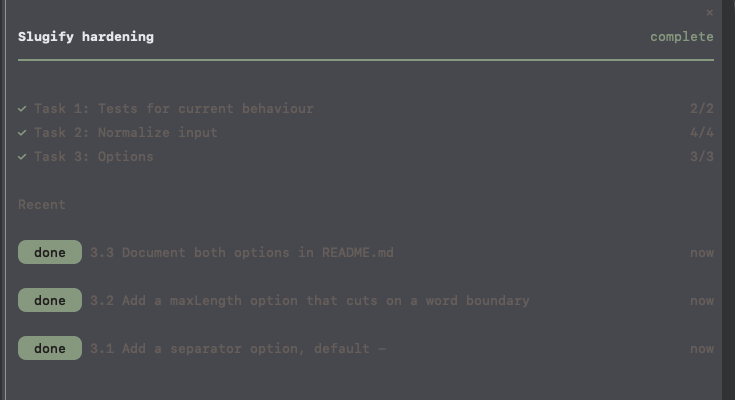
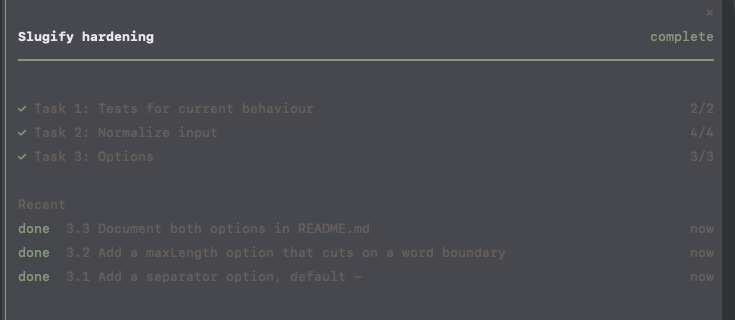
plan-progress: show Recent statuses as colored text again
Pills read heavier than the rest of the pane. Recent now also keeps three rows besides the current item, since the current one used to take a slot.

diff --git a/plan-progress/hooks/register.tsx b/plan-progress/hooks/register.tsx
@@ -168,7 +168,6 @@ const icons: Record<ItemState, { glyph: string; color: string }> = {
 }
 
 const panePadding = 1
-const pillCaps = { left: '\ue0b6', right: '\ue0b4' }
 
 const statusColors: Record<ReportStatus, string> = { doing: 'claude', done: 'success', blocked: 'warning' }
 
@@ -234,7 +233,6 @@ export const register: Register = on => {
 
   on('ui.render', { component: 'Pane', requestId: paneId }, async ($, e) => {
     const { Box, Text } = $.ui.resolve(e)
-    const isTerminal = e.surface === 'terminal'
     const { progress, outline, error } = await read($, view)
     const time = await read($, now)
 
@@ -271,7 +269,7 @@ export const register: Register = on => {
       )
     }
 
-    const pillColumnWidth = Math.max(0, ...model.recent.map(row => row.status.length)) + (isTerminal ? 4 : 2)
+    const statusColumnWidth = Math.max(0, ...model.recent.map(row => row.status.length)) + 1
     const barColor = model.isComplete ? 'success' : 'claude'
     const focusColor = model.focus?.label === 'Blocked' ? 'warning' : model.focus?.label === 'Now' ? 'claude' : 'subtle'
 
@@ -369,17 +367,11 @@ export const register: Register = on => {
         {model.recent.length > 0 && (
           <Box flexDirection="column" marginTop={1}>
             <Text dimColor>Recent</Text>
-            <Box flexDirection="column" rowGap={1} marginTop={1}>
+            <Box flexDirection="column">
               {model.recent.map(row => (
                 <Box key={row.key} gap={1}>
-                  <Box width={pillColumnWidth} flexShrink={0}>
-                    <Text>
-                      {isTerminal && <Text color={statusColors[row.status]}>{pillCaps.left}</Text>}
-                      <Text backgroundColor={statusColors[row.status]} color="inverseText">
-                        {` ${row.status} `}
-                      </Text>
-                      {isTerminal && <Text color={statusColors[row.status]}>{pillCaps.right}</Text>}
-                    </Text>
+                  <Box width={statusColumnWidth} flexShrink={0}>
+                    <Text color={statusColors[row.status]}>{row.status}</Text>
                   </Box>
                   <Box flexGrow={1} flexShrink={1}>
                     <Text dimColor wrap="truncate-end">

diff --git a/plan-progress/hooks/register.test.tsx b/plan-progress/hooks/register.test.tsx
@@ -121,20 +121,15 @@ test('opens the pane on the first report and draws progress on every surface', a
   }
 })
 
-test('shows finished reports under Recent with a status pill', async ($, on) => {
+test('shows finished reports under Recent with their status', async ($, on) => {
   installHost(on)
   await start($)
 
   await $.tool.call({ tool, plan: planPath, item: '2', status: 'done' })
 
-  const terminal = await mountPane($, 'terminal')
-  expect(await terminal.find({ type: 'Text', text: ' done ' })).toBeDefined()
-  expect(await terminal.find({ type: 'Text', text: '\ue0b6' })).toBeDefined()
-  await terminal.unmount()
-
-  const desktop = await mountPane($, 'desktop')
-  expect(await desktop.find({ type: 'Text', text: ' done ' })).toBeDefined()
-  await desktop.unmount()
+  const pane = await mountPane($, 'terminal')
+  expect(await pane.find({ type: 'Text', text: 'done' })).toBeDefined()
+  await pane.unmount()
 })
 
 test('keeps the tracked plan for the next session of the project', async ($, on) => {

diff --git a/plan-progress/hooks/progress.test.ts b/plan-progress/hooks/progress.test.ts
@@ -34,13 +34,13 @@ test('done on another item keeps the current one', () => {
   expect(progress.current?.ref).toBe('3')
 })
 
-test('recent keeps the last three items', () => {
+test('recent keeps the last four items, one more than the pane shows', () => {
   let progress = emptyProgress('/p.md')
-  for (const [index, ref] of ['1', '2', '3', '4'].entries()) {
+  for (const [index, ref] of ['1', '2', '3', '4', '5'].entries()) {
     progress = withReport(progress, reportOf(ref, 'done', index))
   }
 
-  expect(progress.recent.map(one => one.ref)).toEqual(['4', '3', '2'])
+  expect(progress.recent.map(one => one.ref)).toEqual(['5', '4', '3', '2'])
 })
 
 test('summarizes counts and the next item', () => {

diff --git a/plan-progress/hooks/pane.ts b/plan-progress/hooks/pane.ts
@@ -1,6 +1,6 @@
 import type { Outline, PlanGroup, PlanItem, Progress, Report, ReportStatus } from '../types'
 import { allItems, counts } from './outline'
-import { fileName } from './progress'
+import { fileName, recentRows } from './progress'
 
 export type ItemState = 'done' | 'active' | 'blocked' | 'open'
 
@@ -153,6 +153,7 @@ export function paneModel(
     groups,
     recent: progress.recent
       .filter(report => !isSameReport(report, current))
+      .slice(0, recentRows)
       .map(report => ({
         key: `${report.ref}-${String(report.at)}`,
         age: relativeAge(report.at, now),

diff --git a/plan-progress/hooks/progress.ts b/plan-progress/hooks/progress.ts
@@ -2,7 +2,8 @@ import type { Outline, Progress, Report } from '../types'
 import type { Target } from './matching'
 import { allItems, counts } from './outline'
 
-export const recentLimit = 3
+export const recentRows = 3
+const recentLimit = recentRows + 1
 
 export function emptyProgress(plan: string): Progress {
   return { plan, current: null, recent: [] }

diff --git a/plan-progress/README.md b/plan-progress/README.md
@@ -40,13 +40,11 @@ ln -s "$PWD/claude-code-mods/plan-progress" ~/.claude/skills/plan-progress
 | Now    | The item Claude reported as `doing`, how long ago and its note. `Blocked` when stuck    |
 | Next   | The open item after it. Without a report, the first open item                           |
 | Groups | One row per heading with its count. Only the active group shows its items               |
-| Recent | The last reports besides the current item, one row per item, with a status pill         |
+| Recent | The last reports besides the current item, one row per item, in its status color        |
 
 A blocked item keeps its `!` until it is done, so you see what still needs you after Claude moves on.
 
-![Claude is on 2.2 while 2.1 stays marked blocked and shows a blocked pill under Recent](docs/blocked.png)
-
-The pills get rounded ends from Nerd Font glyphs, which most terminal setups with icons in the prompt already have. Without one, the ends show as boxes.
+![Claude is on 2.2 while 2.1 stays marked blocked and shows as blocked under Recent](docs/blocked.png)
 
 When every box is ticked, the bar and the header turn to the theme's success color.
 
